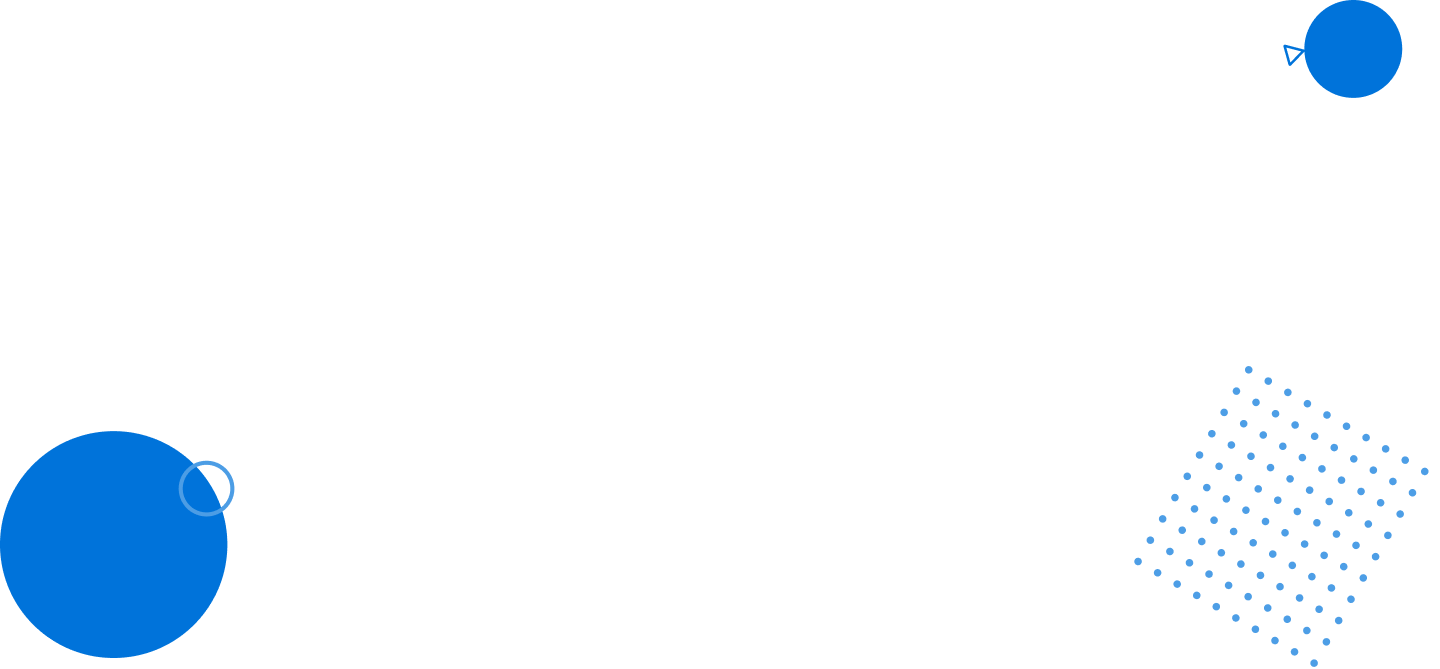
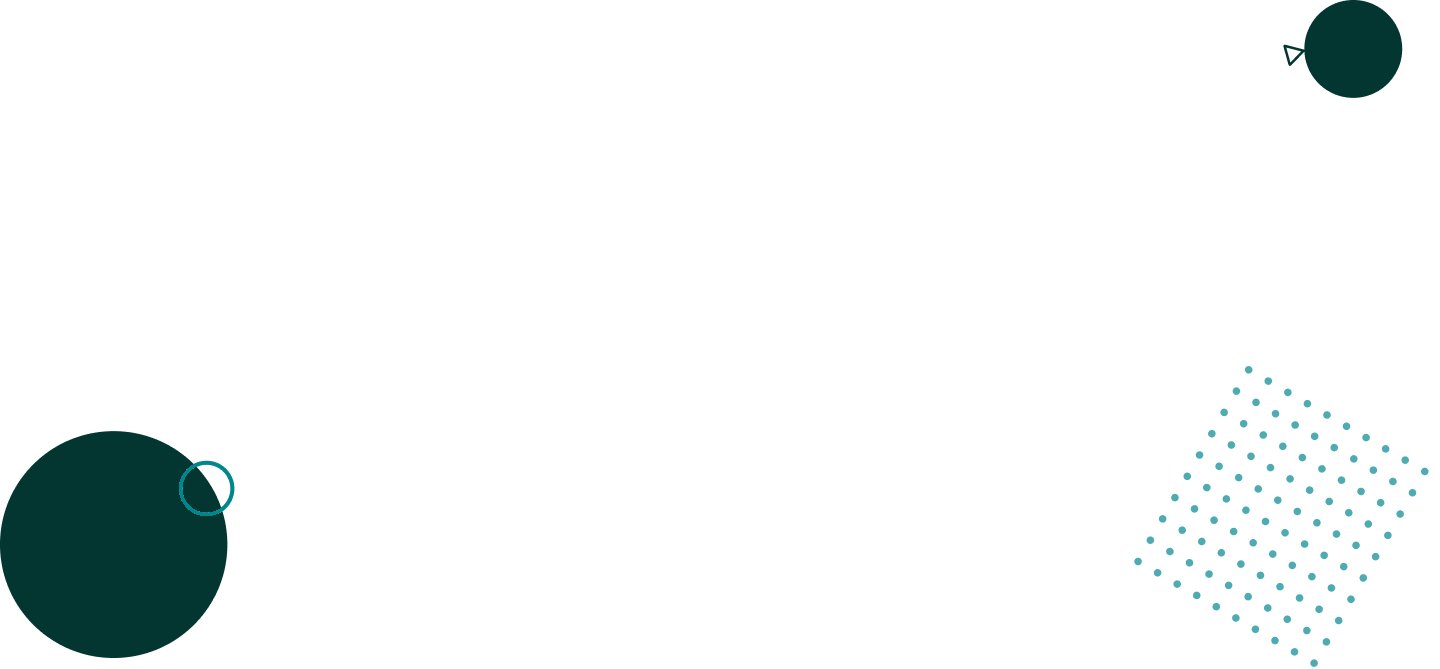
login Add

diff --git a/src/index.scss b/src/index.scss
@@ -147,3 +147,20 @@
 .lh-lg {
     line-height: 1.4 !important;
 }
+
+.btn-greenius {
+    --bs-btn-color: #fff;
+    --bs-btn-bg: #033631;
+    --bs-btn-border-color: #033631;
+    --bs-btn-hover-color: #fff;
+    --bs-btn-hover-bg: #033631e6;
+    --bs-btn-hover-border-color: #033631f5;
+    --bs-btn-focus-shadow-rgb: 49, 132, 253;
+    --bs-btn-active-color: #fff;
+    --bs-btn-active-bg: #033631e6;
+    --bs-btn-active-border-color: #033631e6;
+    --bs-btn-active-shadow: inset 0 3px 5px rgba(0, 0, 0, 0.125);
+    --bs-btn-disabled-color: #fff;
+    --bs-btn-disabled-bg: #00878f;
+    --bs-btn-disabled-border-color: #033631;
+}

diff --git a/src/pages/auth/login/index.js b/src/pages/auth/login/index.js
@@ -91,7 +91,7 @@ export const LoginPage = () => {
         type="submit"
         disabled={isLoading}
         onClick={handleLogin}
-        className="btn btn-primary"
+        className="btn btn-greenius"
       >
         {isLoading && (
           <span className="spinner-border spinner-border-sm me-2" />
